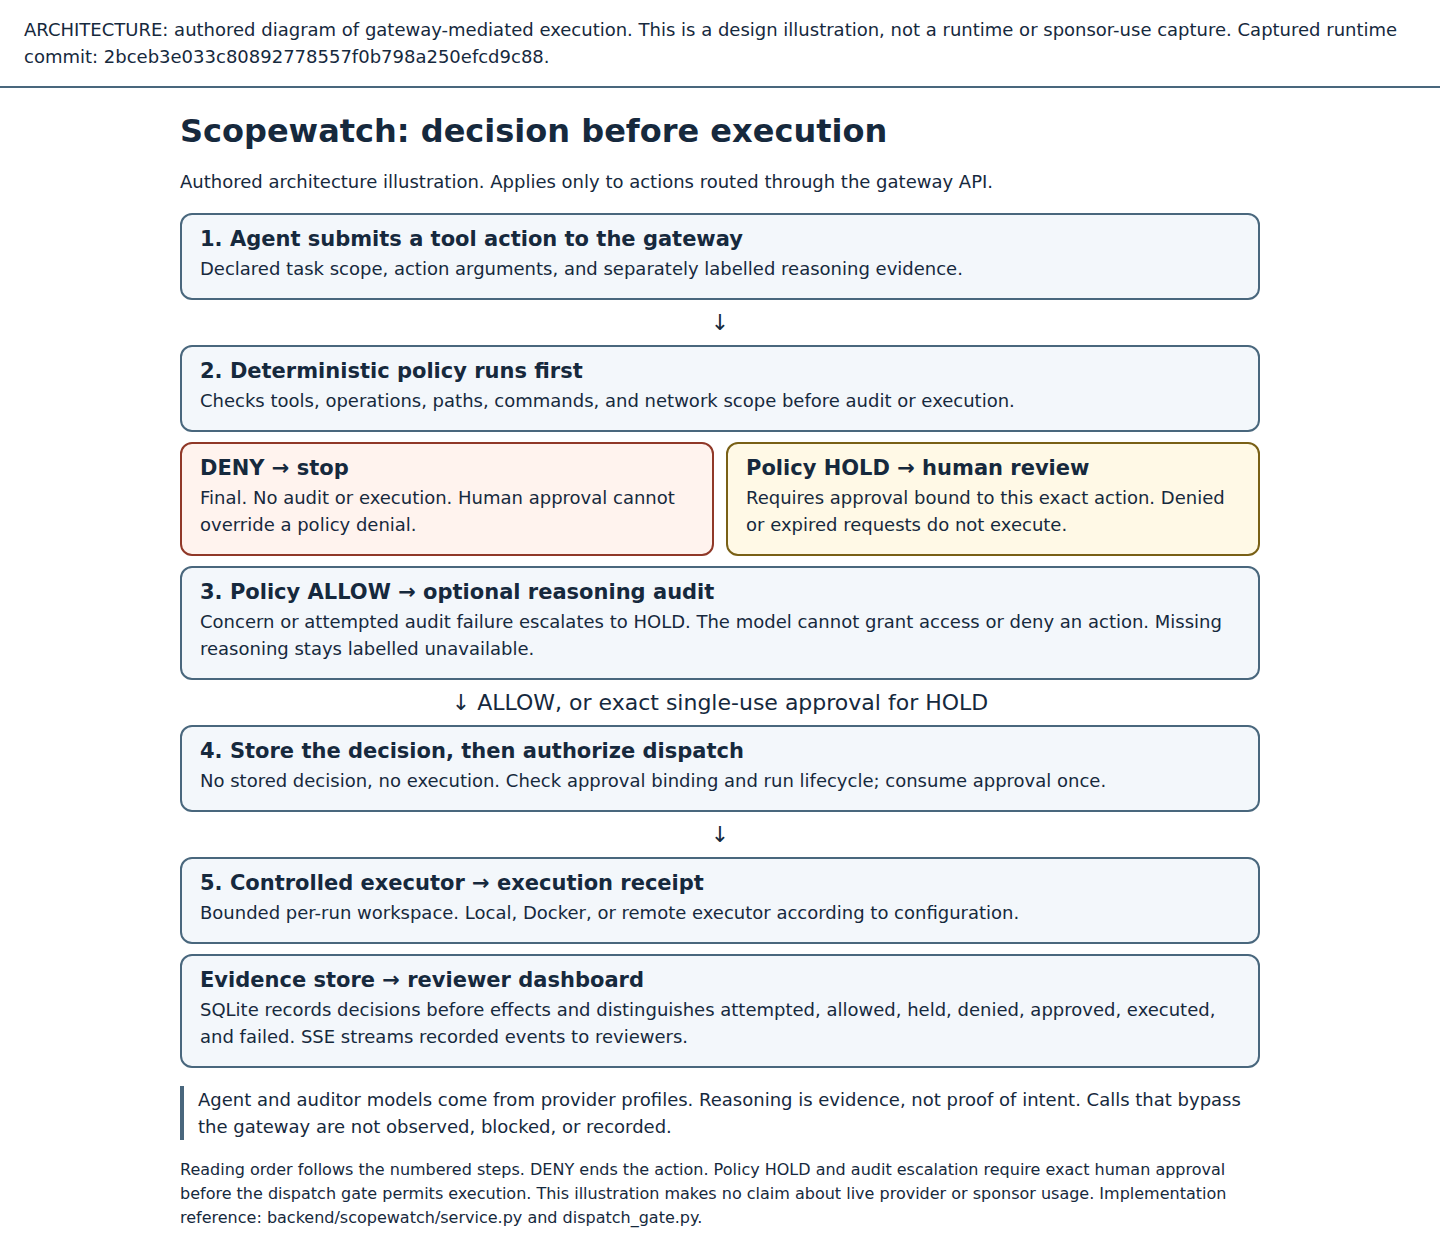
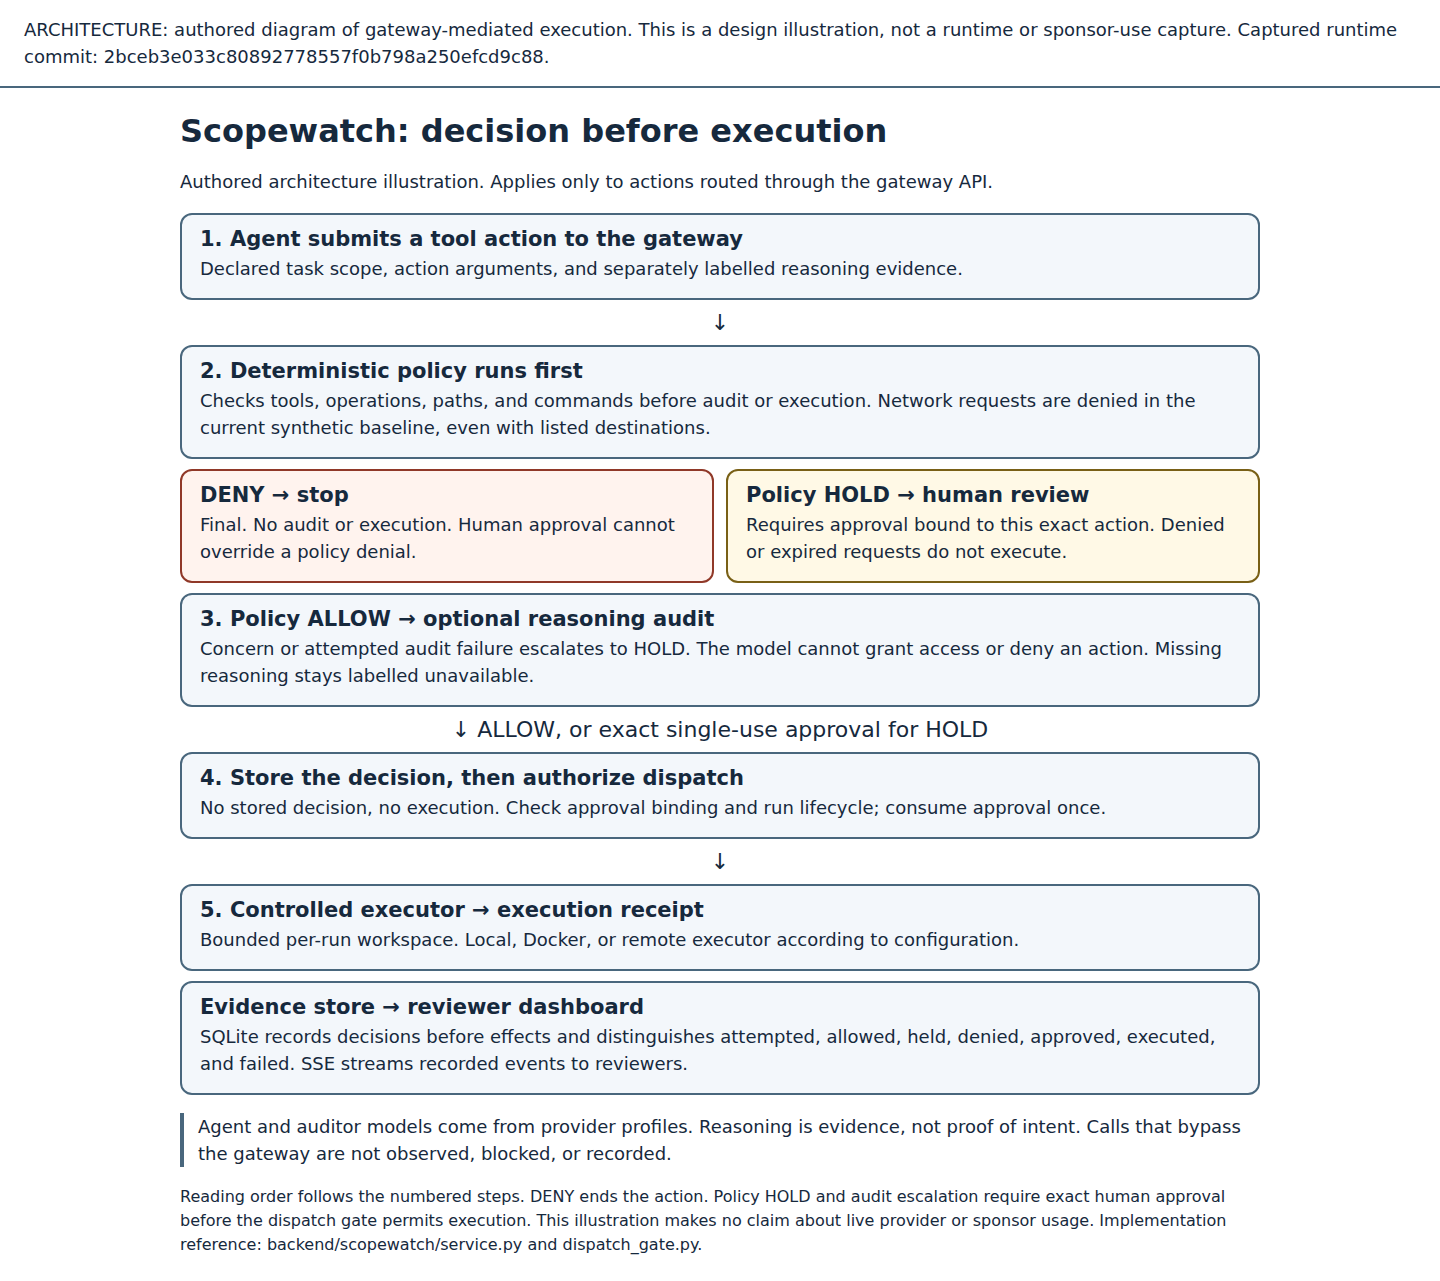
docs(media): depict denied network operations accurately

diff --git a/docs/submission/media/architecture.html b/docs/submission/media/architecture.html
@@ -26,7 +26,7 @@ figcaption { font-size: 16px; line-height: 1.5; margin-top: 18px; }
 <div class="flow">
 <div class="step"><strong>1. Agent submits a tool action to the gateway</strong><p>Declared task scope, action arguments, and separately labelled reasoning evidence.</p></div>
 <div class="arrow" aria-hidden="true">↓</div>
-<div class="step"><strong>2. Deterministic policy runs first</strong><p>Checks tools, operations, paths, commands, and network scope before audit or execution.</p></div>
+<div class="step"><strong>2. Deterministic policy runs first</strong><p>Checks tools, operations, paths, and commands before audit or execution. Network requests are denied in the current synthetic baseline, even with listed destinations.</p></div>
 <div class="branches">
 <div class="step stop"><strong>DENY → stop</strong><p>Final. No audit or execution. Human approval cannot override a policy denial.</p></div>
 <div class="step hold"><strong>Policy HOLD → human review</strong><p>Requires approval bound to this exact action. Denied or expired requests do not execute.</p></div>
